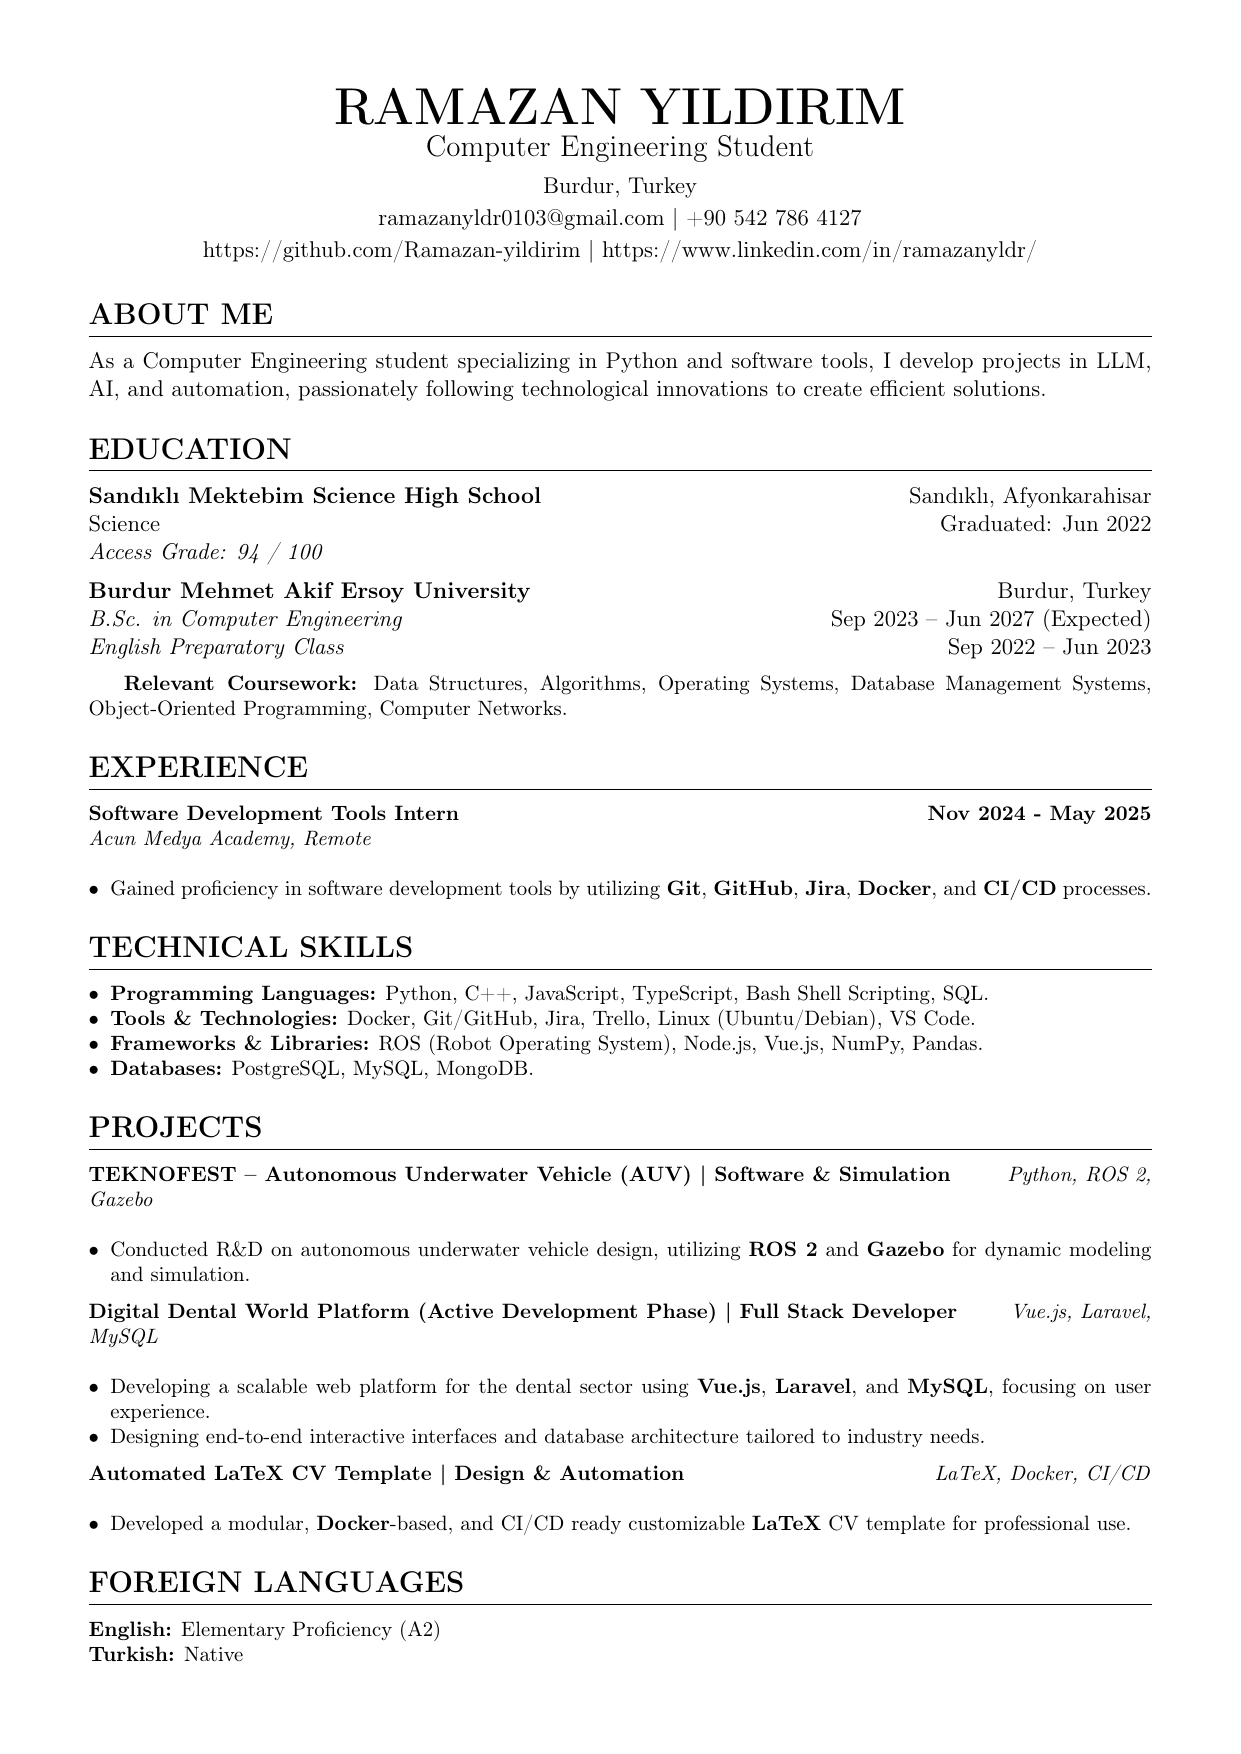
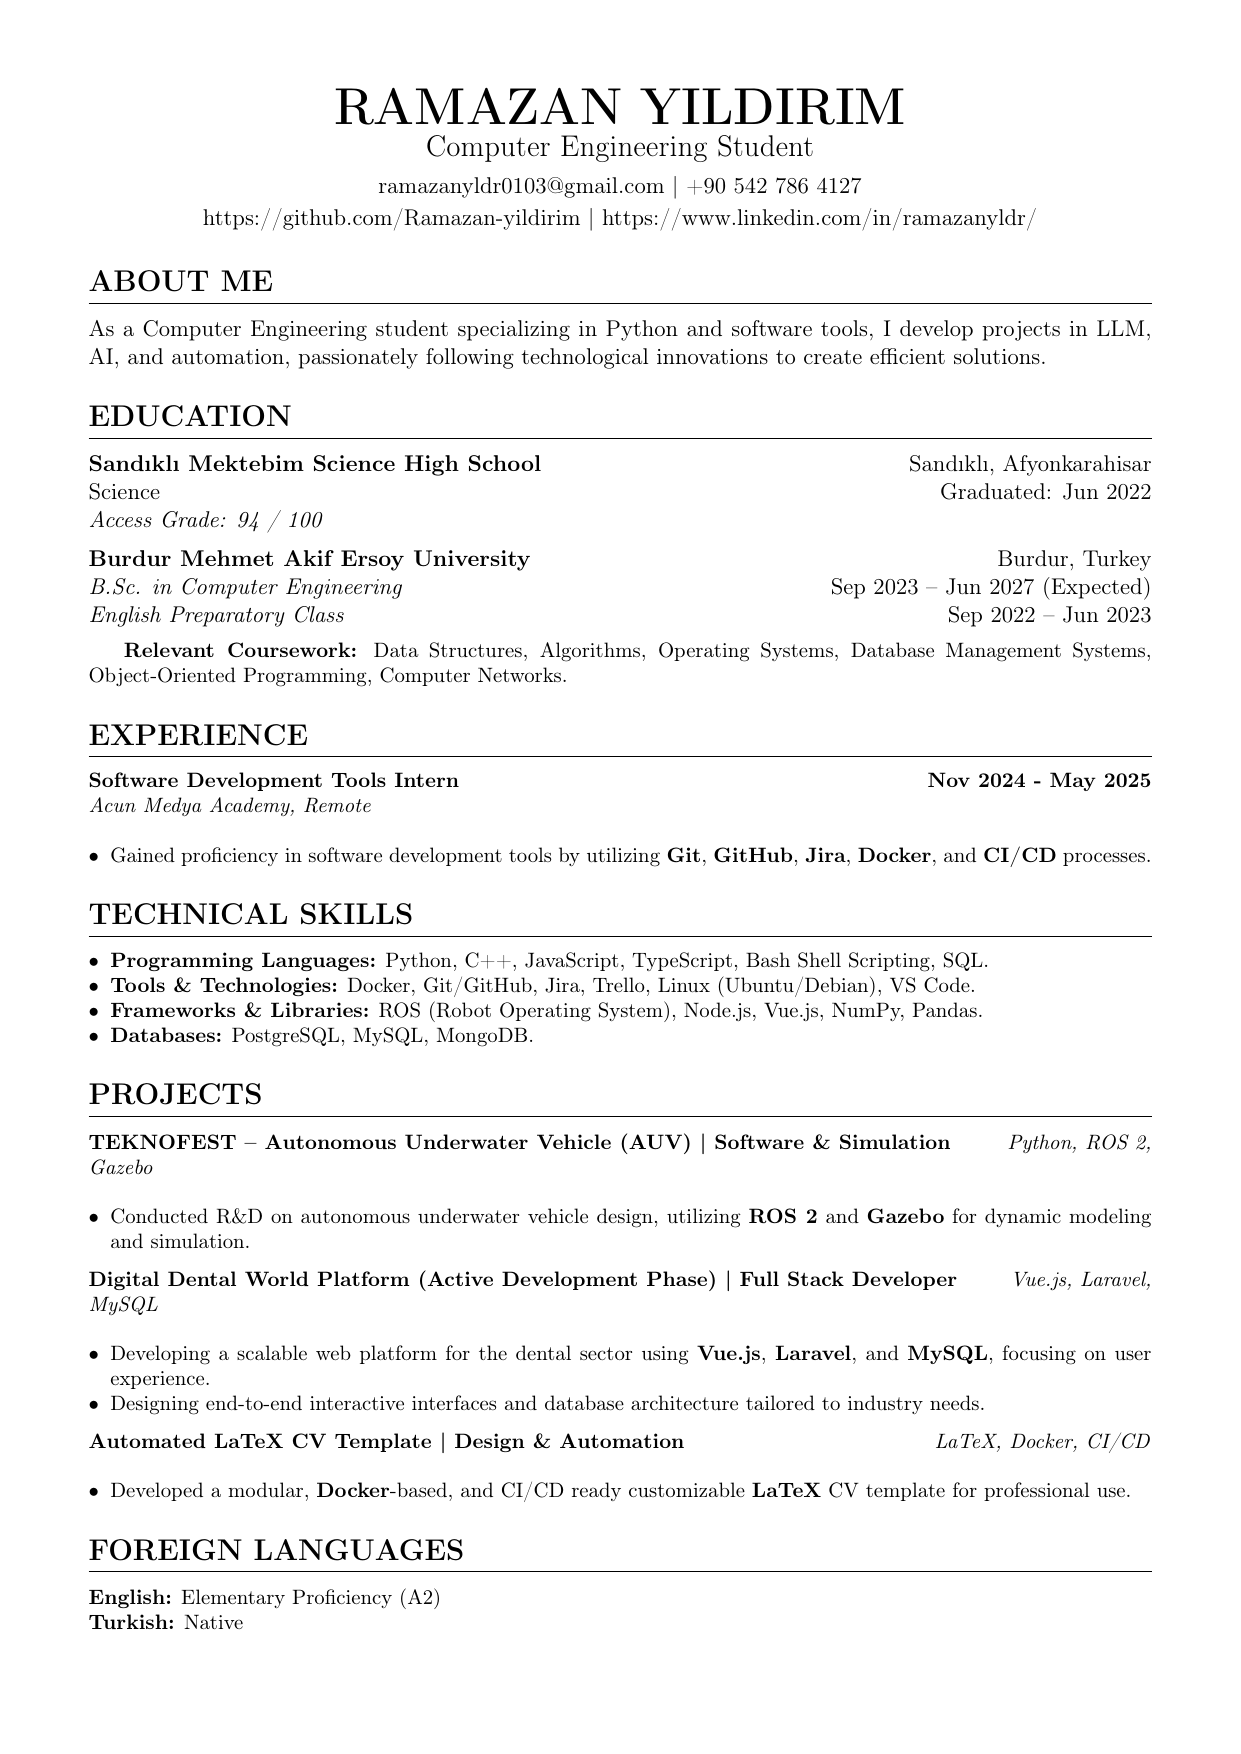
readme düzenleme.

Changed region(s): [[0.0612, 0.0924, 0.9186, 0.9544], [0.7961, 0.6465, 0.9186, 0.7389]]

diff --git a/src/sections/tr/header.tex b/src/sections/tr/header.tex
@@ -6,7 +6,7 @@
     {\Huge\bfseries RAMAZAN YILDIRIM} \\ \vspace{2pt}
     {\Large Bilgisayar Mühendisliği Öğrencisi} \\ \vspace{4pt}
     
-    Burdur, Türkiye \\ \vspace{2pt}
+
     \href{mailto:ramazanyldr0103@gmail.com}{ramazanyldr0103@gmail.com} | +90 542 786 4127 \\ \vspace{2pt}
     \href{https://github.com/Ramazan-yildirim}{https://github.com/Ramazan-yildirim} | \href{https://www.linkedin.com/in/ramazanyldr/}{https://www.linkedin.com/in/ramazan-yildirim}
 \end{center}

diff --git a/src/sections/en/header.tex b/src/sections/en/header.tex
@@ -2,7 +2,7 @@
     {\Huge\bfseries RAMAZAN YILDIRIM} \\ \vspace{2pt}
     {\Large Computer Engineering Student} \\ \vspace{4pt}
     
-    Burdur, Turkey \\ \vspace{2pt}
+
     \href{mailto:ramazanyldr0103@gmail.com}{ramazanyldr0103@gmail.com} | +90 542 786 4127 \\ \vspace{2pt}
     \href{https://github.com/Ramazan-yildirim}{https://github.com/Ramazan-yildirim} | \href{https://www.linkedin.com/in/ramazanyldr/}{https://www.linkedin.com/in/ramazanyldr/}
 \end{center}

diff --git a/src/sections/tr/summary.tex b/src/sections/tr/summary.tex
@@ -2,6 +2,6 @@
 % SUMMARY - Hakkımda
 % ============================================
 
-\section{Hakkımda}
+\section{HAKKIMDA}
 
 Bilgisayar Mühendisliği öğrencisi olarak Python ve yazılım geliştirme araçlarında yetkinleşmekteyim. LLM, yapay zeka ve otomasyon projeleri geliştirerek teknolojik yenilikleri tutkuyla takip ediyorum.

diff --git a/src/sections/tr/skills.tex b/src/sections/tr/skills.tex
@@ -2,7 +2,7 @@
 % SKILLS - Teknik Yetenekler
 % ============================================
 
-\section{Teknik Yetenekler}
+\section{TEKNİK YETENEKLER}
 
 \begin{itemize}
     \item \textbf{Programlama Dilleri:} Python, C++, JavaScript, TypeScript, Bash Shell Scripting, SQL.

diff --git a/src/sections/tr/experience.tex b/src/sections/tr/experience.tex
@@ -2,7 +2,7 @@
 % EXPERIENCE - Deneyim
 % ============================================
 
-\section{Staj Deneyimi}
+\section{STAJ DENEYİMİ}
 
 \textbf{Yazılım Geliştirme Araçları Stajyeri} \hfill \textbf{Kas 2024 - May 2025} \\
 \textit{Acun Medya Akademi, Uzaktan} \\

diff --git a/src/sections/tr/projects.tex b/src/sections/tr/projects.tex
@@ -2,7 +2,7 @@
 % PROJECTS - Projeler
 % ============================================
 
-\section{Projeler}
+\section{PROJELER}
 
 \textbf{TEKNOFEST – Otonom Su Altı Aracı (AUV) | Yazılım \& Simülasyon} \hfill \textit{Python, ROS 2, Gazebo} \\
 \vspace{0pt}

diff --git a/src/cv_tr.tex b/src/cv_tr.tex
@@ -29,7 +29,7 @@
 }
 
 % Section Formatting
-\titleformat{\section}{\Large\bfseries\uppercase}{}{0em}{}[\hrule]
+\titleformat{\section}{\Large\bfseries}{}{0em}{}[\hrule]
 \titlespacing*{\section}{0pt}{12pt}{8pt}
 
 % List Settings - Tighten up lists

diff --git a/src/sections/tr/languages.tex b/src/sections/tr/languages.tex
@@ -2,7 +2,7 @@
 % LANGUAGES - Diller
 % ============================================
 
-\section{Yabancı Diller}
+\section{DİLLER}
 
 \textbf{İngilizce:} Temel Düzey (A2) \\
 \textbf{Türkçe:} Anadil

diff --git a/src/sections/tr/education.tex b/src/sections/tr/education.tex
@@ -1,4 +1,4 @@
-\section{Eğitim}
+\section{EĞİTİM}
 
 \textbf{Sandıklı Mektebim Fen Lisesi} \hfill Sandıklı, Afyonkarahisar \\
 Fen Bilimleri \hfill Mezuniyet: Haz 2022 \\
